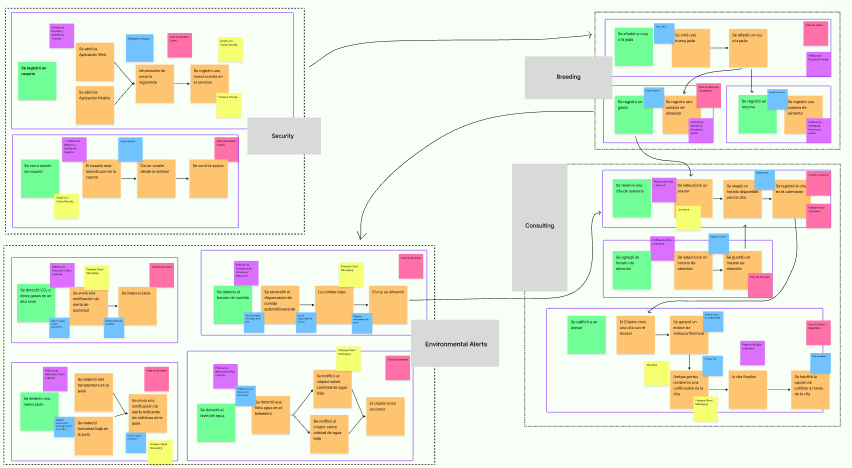
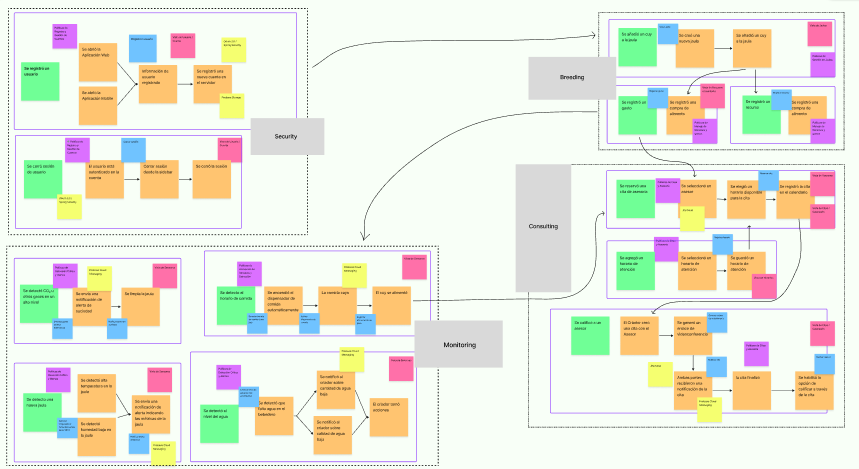
feat(chapter4): context mapping

diff --git a/README.md b/README.md
@@ -492,15 +492,15 @@ Los criadores de cuyes estarán cada vez más dispuestos a integrar tecnologías
 **Contextos Identificados:**
 
 1. **Security:** gestiona la autenticación y perfiles de criadores y asesores técnicos.  
-2. **Environmental Alerts:** monitorea las condiciones dentro de las jaulas y emite alertas cuando se detectan situaciones críticas.  
+2. **Monitoring:** monitorea las condiciones dentro de las jaulas y emite alertas cuando se detectan situaciones críticas.  
 3. **Breeding:** permite gestionar la cantidad de cuyes por jaula, el estado del agua y el uso de dispensadores automáticos de comida.  
 4. **Consulting:** facilita la interacción entre criadores y asesores mediante videollamadas, programación de citas y gestión de disponibilidad.  
 
 **Bounded Context Security**
   <img src="img/bounded_context_security.png" alt="Bounded Context Security" width="800">
 
-**Bounded Context Environmental Alerts**
-    <img src="img/bounded_context_enviormental.png" alt="Bounded Context Environmental" width="800">
+**Bounded Context Monitoring**
+    <img src="img/bounded_context_enviormental.png" alt="Bounded Context Monitoring" width="800">
 
 **Bounded Context Breeding**
     <img src="img/bounded_context_breeding.png" alt="Bounded Context Breeding" width="800">
@@ -508,6 +508,8 @@ Los criadores de cuyes estarán cada vez más dispuestos a integrar tecnologías
 **Bounded Context Consulting**
     <img src="img/bounded_context_consulting.png" alt="Bounded Context Consulting" width="800">
 
+**Bounded Context All - Vista Completa**
+    <img src="img/bounded_context_consulting.png" alt="Bounded Context Consulting" width="800">
 
 #### 4.1.1.2 Domain Message Flows Modeling.
 
@@ -522,6 +524,32 @@ Los criadores de cuyes estarán cada vez más dispuestos a integrar tecnologías
 <img src="https://i.postimg.cc/HjDFXV1L/Bounded-Context-Canvases.png" alt="Bounded Context Canvas - Cuyes" width="900">
 
 [Enlace de la imagen aquí](https://i.postimg.cc/HjDFXV1L/Bounded-Context-Canvases.png)
+
+#### 4.1.2. Context Mapping.
+
+### **4.1.2. Context Mapping**
+
+<p>Una vez definidos nuestros Bounded Contexts, realizamos el mapeo de sus relaciones para comprender cómo se comunican dentro del sistema de AgroCuy y asignar los patrones adecuados según su interacción.</p>
+
+<p>
+– <strong>Security</strong> provee autenticación y manejo de perfiles tanto para criadores como para asesores técnicos. Es utilizado por los demás contextos, pero no depende de ninguno. Esta relación fue clasificada como <strong>Shared Kernel</strong>, ya que su lógica y entidades clave deben ser consistentes y compartidas de forma controlada.
+</p>
+
+<p>
+– <strong>Monitoring</strong> detecta situaciones como falta de agua o comida, y genera alertas críticas. Esta información es consumida por <strong>Breeding</strong> para tomar decisiones sobre el manejo de jaulas. Dado que Breeding depende del lenguaje de eventos generado por Monitoring, aplicamos el patrón <strong>Conformist</strong>.
+</p>
+
+<p>
+– <strong>Consulting</strong> se encarga de la programación de citas, videollamadas y disponibilidad de asesores. Su interacción con <strong>Security</strong> (para acceder al perfil del asesor o criador) sigue el patrón <strong>Customer–Supplier</strong>, ya que Consulting consume datos que Security expone.
+</p>
+
+<p>
+– Además, la comunicación entre <strong>Breeding</strong> y <strong>Monitoring</strong> también puede considerarse como <strong>Published Language</strong> en algunos escenarios, cuando ambos deben interpretar eventos de forma coherente (por ejemplo, para emitir alertas o automatizar los dispensadores).
+</p>
+
+<p>
+Este mapeo nos ayuda a establecer relaciones claras entre los contextos, identificar dependencias y definir una arquitectura que mantenga separadas las responsabilidades de cada módulo en AgroCuy.
+</p>
 
 
 ## Anexos y Bibliografía 
